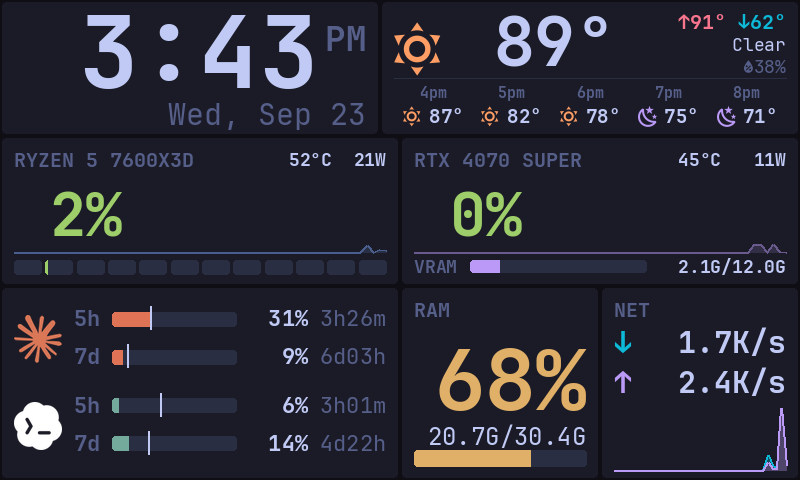
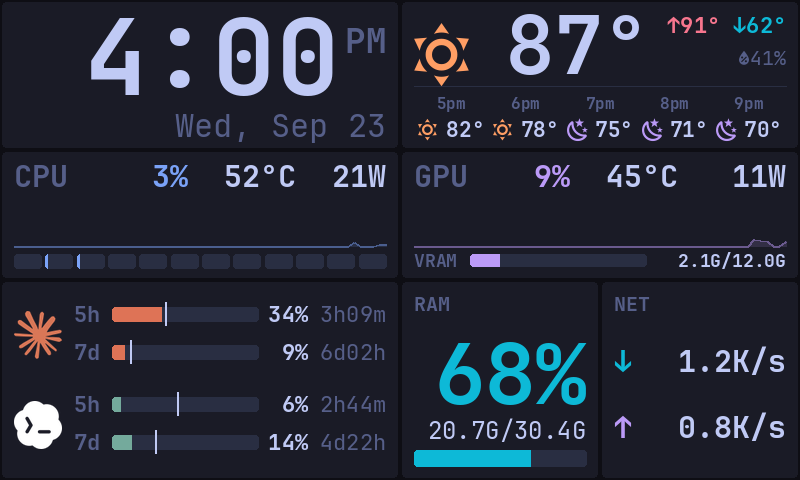
Align the grid and simplify the widgets
All rows split at x=400, and the top row is taller. CPU/GPU show label, usage,
temperature and power on one line. Weather drops the condition text, network
drops its graph and keeps rates in K or larger. Bars and headline numbers use
one fixed color per widget instead of load-based colors, and the AI usage bars
take the full width up to a fixed "99%" column.

diff --git a/turzx/widgets/weather.py b/turzx/widgets/weather.py
@@ -74,28 +74,26 @@ class Weather(Widget):
             d.text((t.PAD, 14), self.error or "loading weather…", font=t.font(t.BODY), fill=t.MUTED)
             return
         c = self.current
-        desc = CODES.get(c["weather_code"], ("", "—"))[1]
-        # current conditions: icon + temp (right-aligned so 100°+ grows left), details column
-        d.text((t.PAD, 6), glyph(c["weather_code"], c["is_day"]), font=t.font(64), fill=t.ORANGE)
-        t.text_right(d, 236, -4, f"{c['temperature_2m']:.0f}°", t.font(68, "bold"), t.TEXT)
+        # current conditions: icon + temp (right-aligned so 100°+ grows left), hi/lo + humidity
+        d.text((t.PAD, 4), glyph(c["weather_code"], c["is_day"]), font=t.font(76), fill=t.ORANGE)
+        t.text_right(d, 250, -8, f"{c['temperature_2m']:.0f}°", t.font(80, "bold"), t.TEXT)
         hi, lo = self.daily["temperature_2m_max"][0], self.daily["temperature_2m_min"][0]
-        fb = t.font(20, "bold")
-        t.fields_right(d, w - t.PAD, 8, [(f"↑{hi:.0f}°", t.RED), (f"↓{lo:.0f}°", t.CYAN)], fb, gap=" ")
-        t.text_right(d, w - t.PAD, 32, desc, t.font(18), t.TEXT)
-        t.text_right(d, w - t.PAD, 54, f"\U000F058E{t.pct_text(c['relative_humidity_2m'])}", t.font(18), t.MUTED)
+        fb = t.font(22, "bold")
+        t.fields_right(d, w - t.PAD, 10, [(f"↑{hi:.0f}°", t.RED), (f"↓{lo:.0f}°", t.CYAN)], fb, gap=" ")
+        t.text_right(d, w - t.PAD, 44, f"\U000F058E{t.pct_text(c['relative_humidity_2m'])}", t.font(20), t.MUTED)
         # hourly strip
         if not self.hours:
             return
-        top = 82
-        d.line((t.PAD, top - 4, w - t.PAD, top - 4), fill=t.TRACK, width=1)
+        top = 92
+        d.line((t.PAD, top - 6, w - t.PAD, top - 6), fill=t.TRACK, width=1)
         col = (w - 2 * t.PAD) / len(self.hours)
-        small, icon_f, temp_f = t.font(15, "bold"), t.font(24), t.font(19, "bold")
+        small, icon_f, temp_f = t.font(16, "bold"), t.font(26), t.font(21, "bold")
         for i, (when, code, is_day, temp) in enumerate(self.hours):
             cx = t.PAD + i * col + col / 2
             label = when.strftime("%-I%p").lower()
             d.text((cx - d.textlength(label, font=small) / 2, top), label, font=small, fill=t.MUTED)
             temp_s = f"{temp:.0f}°"
-            row_w = 26 + d.textlength(temp_s, font=temp_f)
+            row_w = 28 + d.textlength(temp_s, font=temp_f)
             x = cx - row_w / 2
-            d.text((x, top + 18), glyph(code, is_day), font=icon_f, fill=t.ORANGE if is_day else t.MAGENTA)
-            d.text((x + 26, top + 21), temp_s, font=temp_f, fill=t.TEXT)
+            d.text((x, top + 20), glyph(code, is_day), font=icon_f, fill=t.ORANGE if is_day else t.MAGENTA)
+            d.text((x + 28, top + 23), temp_s, font=temp_f, fill=t.TEXT)

diff --git a/turzx/widgets/gpu.py b/turzx/widgets/gpu.py
@@ -19,14 +19,12 @@ class Gpu(Widget):
         super().__init__(**options)
         self.history = deque([0.0] * 60, maxlen=60)
         self.handle = None
-        self.name = "GPU"
         self.util = self.temp = self.power = 0.0
         self.mem_used = self.mem_total = 0
         if pynvml:
             try:
                 pynvml.nvmlInit()
                 self.handle = pynvml.nvmlDeviceGetHandleByIndex(int(options.get("index", 0)))
-                self.name = pynvml.nvmlDeviceGetName(self.handle).replace("NVIDIA GeForce ", "")
             except pynvml.NVMLError:
                 self.handle = None
 
@@ -42,18 +40,20 @@ class Gpu(Widget):
         self.history.append(self.util)
 
     def draw(self, d, w, h):
-        y = t.card(d, w, h, self.name.upper())
-        if not self.handle:
-            d.text((t.PAD, y), "NVML unavailable", font=t.font(t.BODY), fill=t.MUTED)
-            return
+        t.card(d, w, h)
         o = self.options
-        t.fields_right(d, w - t.PAD, 11, [
+        if not self.handle:
+            t.stat_line(d, w, 6, o.get("label", "GPU"), [("n/a", t.MUTED)])
+            return
+        color = t.role(o.get("color", "magenta"))
+        t.stat_line(d, w, 6, o.get("label", "GPU"), [
+            (t.pct_text(self.util), color),
             (t.temp_text(self.temp), t.threshold_color(self.temp, o.get("temp_warn", 75), o.get("temp_crit", 83))),
             (t.watts_text(self.power, 3), t.threshold_color(self.power, o.get("power_warn", 180), o.get("power_crit", 210))),
-        ], t.font(18, "bold"))
+        ])
         strip = h - 30  # VRAM row along the bottom
-        t.sparkline(d, t.PAD, y, w - 2 * t.PAD, strip - y - 4, self.history, color=t.MAGENTA, dim=True)
-        t.big_pct(d, t.PAD, y + 2, self.util)
+        top = 50
+        t.sparkline(d, t.PAD, top, w - 2 * t.PAD, strip - top - 4, self.history, color=color, dim=True)
         vram = 100 * self.mem_used / self.mem_total if self.mem_total else 0
         f = t.font(18, "bold")
         d.text((t.PAD, strip - 2), "VRAM", font=f, fill=t.MUTED)
@@ -62,4 +62,4 @@ class Gpu(Widget):
         bx = t.PAD + 56
         # reserve the widest possible label so the bar never changes length
         widest = f"999.9M/{t.human_bytes(self.mem_total)}"
-        t.bar(d, bx, strip + 4, w - t.PAD - d.textlength(widest, font=f) - 10 - bx, 12, vram, t.MAGENTA)
+        t.bar(d, bx, strip + 4, w - t.PAD - d.textlength(widest, font=f) - 10 - bx, 12, vram, color)

diff --git a/turzx/widgets/cpu.py b/turzx/widgets/cpu.py
@@ -1,4 +1,3 @@
-import re
 import time
 from collections import deque
 from pathlib import Path
@@ -21,17 +20,7 @@ class Cpu(Widget):
         self.temp = None
         self.power = None
         self._energy = None
-        self.name = options.get("name") or self._model_name()
         psutil.cpu_percent(percpu=True)  # prime the counters
-
-    @staticmethod
-    def _model_name() -> str:
-        for line in Path("/proc/cpuinfo").read_text().splitlines():
-            if line.startswith("model name"):
-                name = line.split(":", 1)[1]
-                name = re.sub(r"\(R\)|\(TM\)|CPU|Processor|\d+-Core|@.*|AMD|Intel", "", name)
-                return " ".join(name.split()).upper()
-        return "CPU"
 
     def _read_power(self):
         """Package power from RAPL energy counter deltas (works for AMD and Intel)."""
@@ -56,18 +45,19 @@ class Cpu(Widget):
         self._read_power()
 
     def draw(self, d, w, h):
-        y = t.card(d, w, h, self.name)
+        t.card(d, w, h)
         o = self.options
-        fields = []
+        color = t.role(o.get("color", "accent"))
+        fields = [(t.pct_text(self.total), color)]
         if self.temp is not None:
             fields.append((t.temp_text(self.temp), t.threshold_color(self.temp, o.get("temp_warn", 75), o.get("temp_crit", 85))))
         if self.power is not None:
             fields.append((t.watts_text(self.power, 2), t.threshold_color(self.power, o.get("power_warn", 60), o.get("power_crit", 80))))
-        t.fields_right(d, w - t.PAD, 11, fields, t.font(18, "bold"))
+        t.stat_line(d, w, 6, o.get("label", "CPU"), fields)
         strip = h - 26  # per-core bars along the bottom
-        t.sparkline(d, t.PAD, y, w - 2 * t.PAD, strip - y - 8, self.history, dim=True)
-        t.big_pct(d, t.PAD, y + 2, self.total)
+        top = 50
+        t.sparkline(d, t.PAD, top, w - 2 * t.PAD, strip - top - 8, self.history, color=color, dim=True)
         n = len(self.cores) or 1
         slot = (w - 2 * t.PAD + 4) / n
         for i, pct in enumerate(self.cores):
-            t.bar(d, t.PAD + i * slot, strip, slot - 4, 14, pct, step=10)
+            t.bar(d, t.PAD + i * slot, strip, slot - 4, 14, pct, color, step=10)

diff --git a/turzx/theme.py b/turzx/theme.py
@@ -168,10 +168,15 @@ def watts_text(v: float, digits: int = 2) -> str:
     return capped(v, digits) + "W"
 
 
-def big_pct(d: ImageDraw.ImageDraw, x: int, y: int, v: float, size: int = BIG) -> None:
+def big_pct(d: ImageDraw.ImageDraw, x: int, y: int, v: float, size: int = BIG, color=None) -> None:
     """Headline percentage, right-aligned to a fixed "99%" width so the % sign never moves."""
     f = font(size, "bold")
-    text_right(d, x + d.textlength("99%", font=f), y, pct_text(v), f, level_color(v))
+    text_right(d, x + d.textlength("99%", font=f), y, pct_text(v), f, color or level_color(v))
+
+
+def role(name: str):
+    """Palette color by role name ("accent", "cyan", ...), resolved at draw time so theme switches apply."""
+    return globals()[name.upper()]
 
 
 def threshold_color(v: float | None, warn: float, crit: float):
@@ -187,13 +192,22 @@ def fields_right(d: ImageDraw.ImageDraw, right: float, y: int, fields, fnt, gap:
         right -= d.textlength(text + gap, font=fnt)
 
 
+def stat_line(d: ImageDraw.ImageDraw, w: int, y: int, label: str, fields, size: int = 30) -> None:
+    """Card headline: label on the left, fixed-width colored readings right-aligned."""
+    f = font(size, "bold")
+    d.text((PAD, y), label, font=f, fill=MUTED)
+    fields_right(d, w - PAD, y, fields, f)
+
+
 def text_right(d: ImageDraw.ImageDraw, right: int, y: int, text: str, fnt, fill=TEXT) -> None:
     d.text((right - d.textlength(text, font=fnt), y), text, font=fnt, fill=fill)
 
 
-def human_bytes(n: float, suffix: str = "") -> str:
-    for unit in ("B", "K", "M", "G", "T"):
-        if abs(n) < 1024 or unit == "T":
+def human_bytes(n: float, suffix: str = "", min_unit: str = "B") -> str:
+    """1536 -> '1.5K'. min_unit="K" keeps small values in K (e.g. '0.2K') instead of dropping to bytes."""
+    units = ("B", "K", "M", "G", "T")
+    for unit in units:
+        if (abs(n) < 1024 and units.index(unit) >= units.index(min_unit)) or unit == "T":
             return f"{n:.0f}{unit}{suffix}" if unit == "B" else f"{n:.1f}{unit}{suffix}"
         n /= 1024
     return f"{n:.1f}T{suffix}"

diff --git a/turzx/widgets/network.py b/turzx/widgets/network.py
@@ -9,15 +9,20 @@ from turzx.widget import Widget, register
 
 @register("network")
 class Network(Widget):
-    """Throughput for one interface (or all non-loopback ones)."""
+    """Throughput for one interface (or all physical ones).
+
+    Rates are averaged over a few samples and never drop below the K unit, so
+    idle chatter doesn't make the numbers flicker between B, K and M.
+    """
 
     interval = 1.0
 
     def __init__(self, **options):
         super().__init__(**options)
         self.iface = options.get("interface")
-        self.down = deque([0.0] * 40, maxlen=40)
-        self.up = deque([0.0] * 40, maxlen=40)
+        n = int(options.get("smooth", 3))
+        self.down = deque([0.0], maxlen=n)
+        self.up = deque([0.0], maxlen=n)
         self._last = None
 
     def _counters(self):
@@ -34,14 +39,14 @@ class Network(Widget):
             self.up.append((tx - tx0) / dt)
         self._last = (now, rx, tx)
 
+    def rate(self, samples) -> str:
+        return t.human_bytes(sum(samples) / len(samples), "/s", min_unit="K")
+
     def draw(self, d, w, h):
         y = t.card(d, w, h, "NET")
         f = t.font(30, "bold")
-        d.text((t.PAD, y), "↓", font=f, fill=t.CYAN)
-        t.text_right(d, w - t.PAD, y, t.human_bytes(self.down[-1], "/s"), f, t.TEXT)
-        d.text((t.PAD, y + 40), "↑", font=f, fill=t.MAGENTA)
-        t.text_right(d, w - t.PAD, y + 40, t.human_bytes(self.up[-1], "/s"), f, t.TEXT)
-        top, gh = y + 86, h - y - 96
-        vmax = max(max(self.down), max(self.up), 1024)
-        t.sparkline(d, t.PAD, top, w - 2 * t.PAD, gh, self.down, vmax=vmax, color=t.CYAN)
-        t.sparkline(d, t.PAD, top, w - 2 * t.PAD, gh, self.up, vmax=vmax, color=t.MAGENTA)
+        gap = (h - y - 2 * 36) / 3
+        for i, (arrow, color, samples) in enumerate((("↓", t.CYAN, self.down), ("↑", t.MAGENTA, self.up))):
+            ry = y + gap + i * (36 + gap) - 6
+            d.text((t.PAD, ry), arrow, font=f, fill=color)
+            t.text_right(d, w - t.PAD, ry, self.rate(samples), f, t.TEXT)

diff --git a/turzx/widgets/ai_usage.py b/turzx/widgets/ai_usage.py
@@ -61,6 +61,11 @@ class AiUsage(Widget):
     def draw(self, d, w, h):
         y = t.card(d, w, h)
         f, fb = t.font(22), t.font(22, "bold")
+        # fixed columns sized for the widest values ("99%", "6d23h") so bars use all the rest
+        reset_w = d.textlength("6d23h", font=f)
+        pct_right = w - t.PAD - reset_w - 12
+        bx = 112
+        bw = pct_right - d.textlength("99%", font=fb) - 10 - bx
         block = (h - 2 * y) / len(self.providers)
         for i, p in enumerate(self.providers):
             color = PROVIDERS[p][2]
@@ -74,13 +79,12 @@ class AiUsage(Widget):
             for j, (win, pct, reset) in enumerate((("5h", five, r5), ("7d", seven, r7))):
                 ry = by + block / 2 - 36 + j * 38
                 d.text((74, ry), win, font=fb, fill=t.MUTED)
-                bx, bw = 112, w - 112 - 164
-                t.bar(d, bx, ry + 8, bw, 14, pct, t.level_color(pct) if pct >= 50 else color)
+                t.bar(d, bx, ry + 8, bw, 14, pct, color)
                 pace = pace_pct(reset, win, time.monotonic() - self.fetched.get(p, time.monotonic()))
                 if pace is not None:  # tick where even usage across the window would be
                     mx = round(bx + bw * pace / 100)
                     d.rectangle((mx - 1, ry + 3, mx, ry + 26), fill=t.TEXT)
                 ahead = pace is not None and pct > pace + 5
                 pct_color = t.RED if pct >= 80 else t.YELLOW if ahead else t.TEXT
-                t.text_right(d, w - 92, ry, t.pct_text(pct), fb, pct_color)
+                t.text_right(d, pct_right, ry, t.pct_text(pct), fb, pct_color)
                 t.text_right(d, w - t.PAD, ry, reset, f, t.MUTED)

diff --git a/turzx/widgets/clock.py b/turzx/widgets/clock.py
@@ -17,8 +17,8 @@ class Clock(Widget):
         right = w - t.PAD
         if self.options.get("ampm", True):
             ampm = t.font(34, "bold")
-            d.text((right - d.textlength("PM", font=ampm), 16), self.now.strftime("%p"), font=ampm, fill=t.MUTED)
+            d.text((right - d.textlength("PM", font=ampm), 18), self.now.strftime("%p"), font=ampm, fill=t.MUTED)
             right -= d.textlength("PM", font=ampm) + 6
         hm = self.now.strftime(self.options.get("format", "%-I:%M"))
-        t.text_right(d, right, -14, hm, t.font(100, "bold"), t.TEXT)
-        t.text_right(d, w - t.PAD, h - 42, self.now.strftime("%a, %b %-d"), t.font(30), t.MUTED)
+        t.text_right(d, right, -14, hm, t.font(106, "bold"), t.TEXT)
+        t.text_right(d, w - t.PAD, h - 46, self.now.strftime("%a, %b %-d"), t.font(32), t.MUTED)

diff --git a/turzx/widgets/memory.py b/turzx/widgets/memory.py
@@ -16,7 +16,8 @@ class Memory(Widget):
     def draw(self, d, w, h):
         y = t.card(d, w, h, "RAM")
         pct = self.ram.percent
-        t.big_pct(d, w - t.PAD - d.textlength("99%", font=t.font(84, "bold")), y + 2, pct, 84)
+        color = t.role(self.options.get("color", "cyan"))
+        t.big_pct(d, w - t.PAD - d.textlength("99%", font=t.font(84, "bold")), y + 2, pct, 84, color)
         t.text_right(d, w - t.PAD, y + 98, f"{t.human_bytes(self.ram.used)}/{t.human_bytes(self.ram.total)}",
                      t.font(24), t.TEXT)
-        t.bar(d, t.PAD, h - 30, w - 2 * t.PAD, 16, pct)
+        t.bar(d, t.PAD, h - 30, w - 2 * t.PAD, 16, pct, color)

diff --git a/docs/DESIGN.md b/docs/DESIGN.md
@@ -145,11 +145,26 @@ These come from iterating on the real panel. Keep them when adding widgets.
   couldn't show anything under about 45 %. Per-core CPU bars snap to 10 % steps
   (about 2.7 px each); VRAM, RAM and AI usage use 1 % steps (1.2–2 px each).
 - **Squarish corners.** Cards use a 4 px radius and bars 3 px.
+- **One grid.** Every row splits at x=400, and the bottom row also splits at 600,
+  so the card edges line up down the screen. Row heights are 150 / 130 / 200.
 - **Use space for size, not decoration.** Headers only appear where the content
-  isn't obvious. The AI card relies on logos, and the network card only has
-  "NET". History graphs sit faintly behind headline numbers instead of taking
-  their own rows. A RAM history graph was tried and dropped: RAM barely moves,
-  so it drew as a flat shaded box.
+  isn't obvious. The AI card relies on logos, CPU and GPU are plain labels (model
+  names were dropped), and weather has no condition text because the icon says
+  it. CPU and GPU put usage %, temperature and watts on one `stat_line`, with
+  the history graph drawn faintly below. Graphs were dropped where they added
+  nothing: RAM barely moves, so its graph was a flat shaded box, and the network
+  graph was just noise.
+- **Stable readouts.** Network rates are averaged over 3 samples and never drop
+  below the K unit (idle reads `0.0K/s`), so idle chatter doesn't jump between
+  B, K and M.
+- **One fixed color per widget.** Bars and headline numbers don't change color
+  with their value. Each widget has its own color: CPU accent blue, GPU magenta,
+  RAM cyan, and Claude/Codex their brand colors. Load-based green/yellow/red was
+  dropped because it made the RAM card yellow and the core bars green for no
+  useful reason. Color changes are reserved for real warnings: temperature and
+  power thresholds, and AI usage ahead of pace or at 80 % or more.
+- **Bars fill their row.** Columns next to a bar are sized for their widest
+  possible value ("99%", "6d23h"), and the bar takes all remaining width.
 - **Warnings are per field.** Temperature and power turn yellow or red past
   per-widget thresholds. Defaults follow the hardware limits: the 7600X3D's
   Tjmax is 89 °C and its package power about 88 W; the 4070 SUPER throttles
@@ -159,8 +174,7 @@ These come from iterating on the real panel. Keep them when adding widgets.
 
 - **cpu.** Package power comes from RAPL energy deltas at
   `/sys/class/powercap/intel-rapl:0/energy_uj`, which also exists on AMD and is
-  world-readable here. Temperature is k10temp `Tctl`. The name is taken from
-  `/proc/cpuinfo` with vendor noise stripped.
+  world-readable here. Temperature is k10temp `Tctl`.
 - **gpu.** NVML (`nvidia-ml-py`); in-process, cheaper than running `nvidia-smi`.
 - **ai_usage.** Runs the same `claude-usage` / `codex-usage` CLIs as the Omarchy
   bar widgets, with `--format "{5h_pct}|{7d_pct}|{5h_reset}|{7d_reset}"` for

diff --git a/README.md b/README.md
@@ -66,17 +66,17 @@ To try a variant, copy `layouts/default.toml`, edit the copy, and check it with
 
 ### Widgets
 
-Every widget also accepts `interval`: the number of seconds between data refreshes.
+Every widget also accepts `interval`: the number of seconds between data refreshes. `color` options take a palette role name: `accent`, `cyan`, `magenta`, `green`, `yellow`, `orange` or `red`.
 
 | type | options | shows |
 |---|---|---|
 | `clock` | `format` (strftime, default `%-I:%M`), `ampm` | time, AM/PM, date |
 | `weather` | `latitude`, `longitude`, `units` (`imperial`/`metric`) | current conditions + 5-hour forecast (Open-Meteo) |
-| `cpu` | `name`, `temp_warn`, `temp_crit`, `power_warn`, `power_crit` | load, per-core bars, temperature, package power |
-| `gpu` | `index`, `temp_warn`, `temp_crit`, `power_warn`, `power_crit` | NVIDIA load, VRAM, temperature, power |
+| `cpu` | `label`, `color`, `temp_warn`, `temp_crit`, `power_warn`, `power_crit` | one-line load / temperature / package power, per-core bars |
+| `gpu` | `index`, `label`, `color`, `temp_warn`, `temp_crit`, `power_warn`, `power_crit` | one-line NVIDIA load / temperature / power, VRAM |
 | `ai_usage` | `providers` (`claude`, `codex`) | 5-hour / 7-day limits with pace markers |
-| `memory` | — | RAM |
-| `network` | `interface` (default: all physical interfaces) | download/upload rate + graph |
+| `memory` | `color` | RAM |
+| `network` | `interface` (default: all physical), `smooth` (samples, 3) | download/upload rate, never below the K unit |
 
 ## Writing a widget
 
@@ -103,7 +103,7 @@ Then add a `[[widget]]` entry with `type = "hello"` and a `box` to a layout.
 Only pixels that changed since the last draw are sent to the screen.
 
 Use the helpers in `turzx/theme.py` (`big_pct`, `pct_text`, `temp_text`,
-`watts_text`, `bar`, `sparkline`, `text_right`, `fields_right`, `icon`) so a new
+`watts_text`, `stat_line`, `bar`, `sparkline`, `text_right`, `fields_right`, `icon`) so a new
 widget follows the same visual rules as the others. The rules are described in
 DESIGN.md.
 
